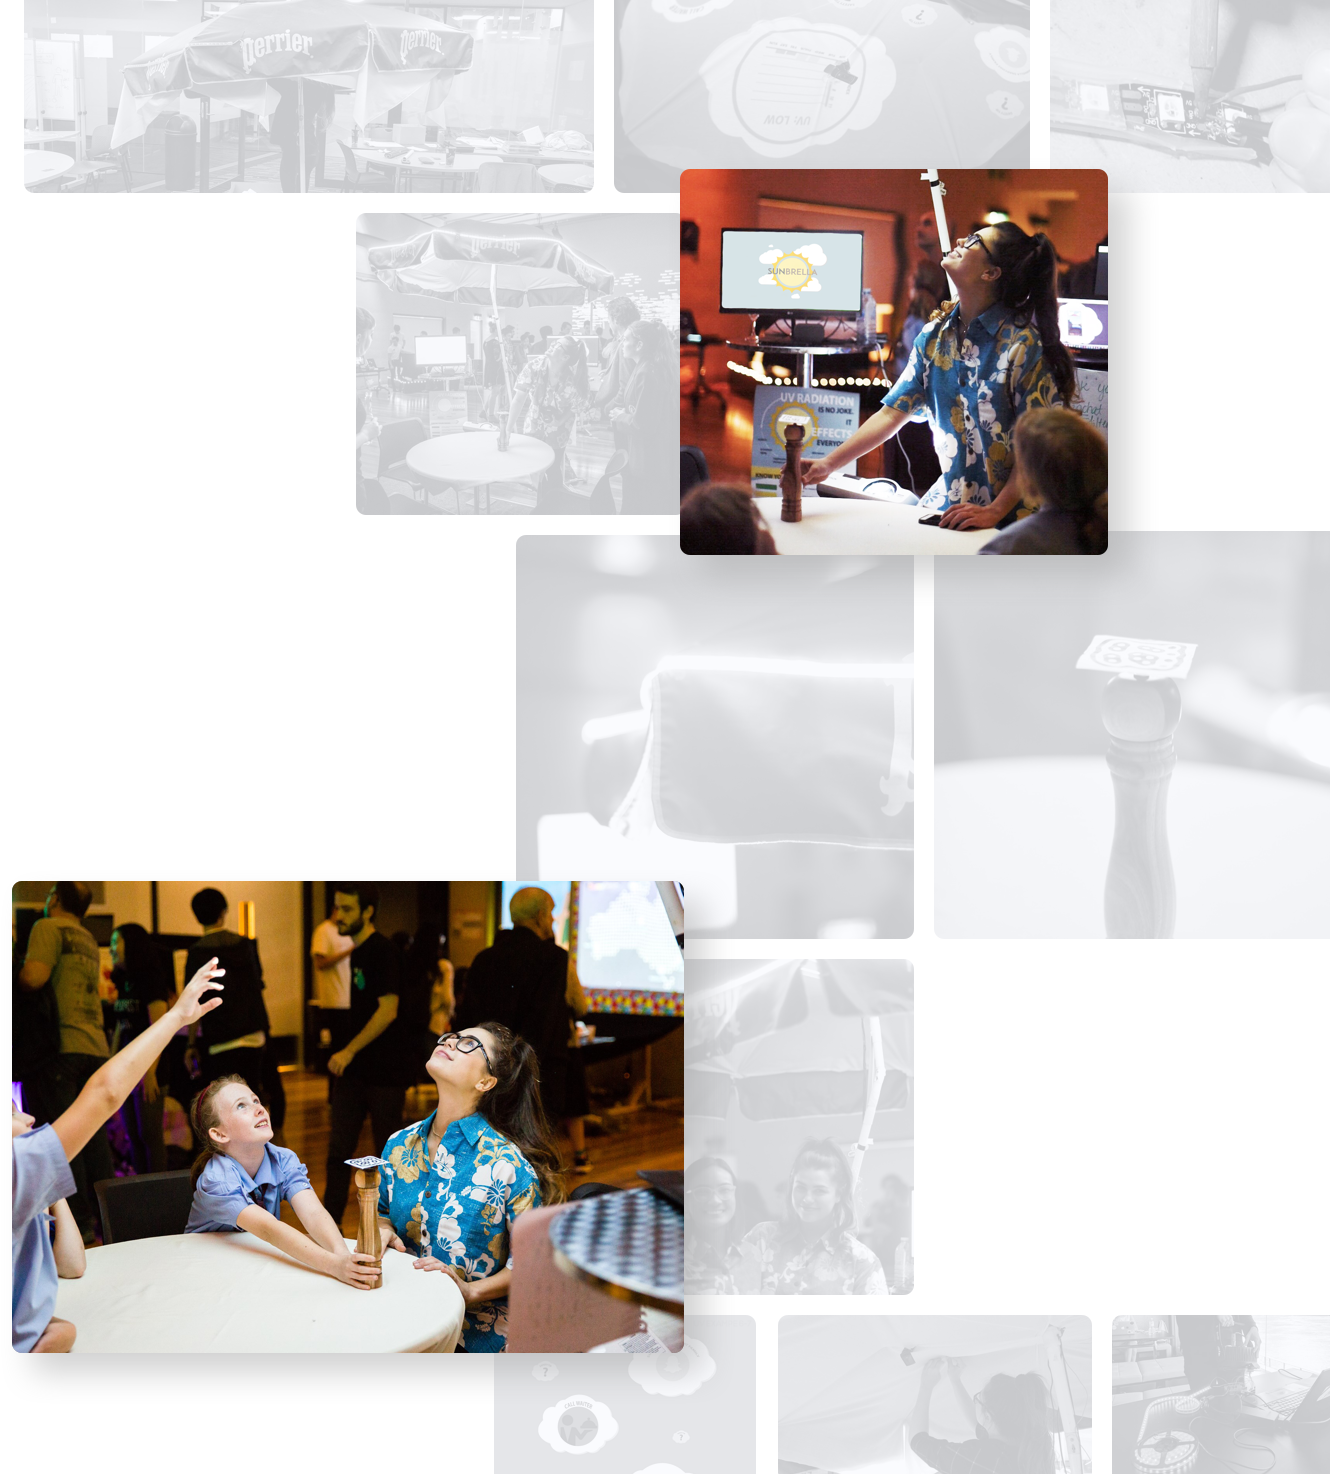
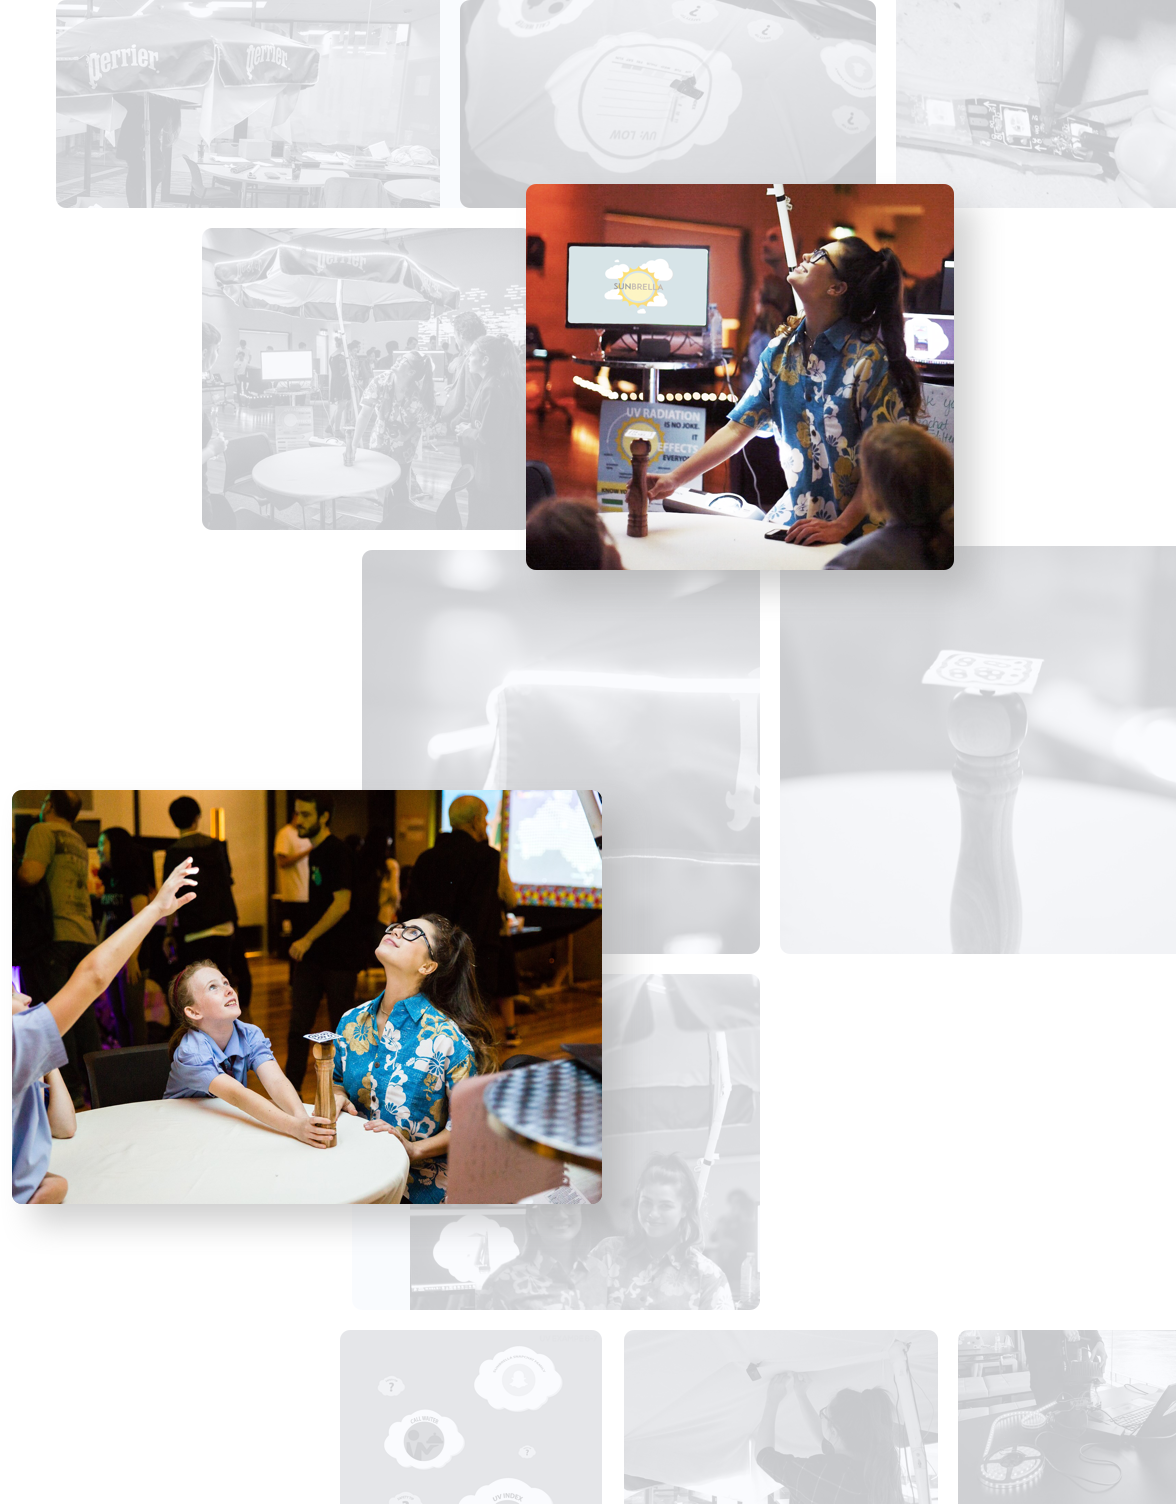
yasss

diff --git a/css/style.css b/css/style.css
@@ -294,10 +294,17 @@ footer {
     background-color: #F1F2F7;
 }
 
-.sunbrellaInformation{
+.sunbrellaInformationLarge {
     display: block;
     width: 100%; 
-    height: 548px; 
+    height: 800px; 
+}
+
+.sunbrellaInformationMedium {
+    display: none;
+    width: 100%; 
+    height: 600px; 
+
 }
 
 .portfolioInformation{
@@ -328,16 +335,26 @@ footer {
     height: 100%;
 }
 
+.rightImagesSun {
+    height: 100%;
+    float: right;
+}
+
 
 #scrunchGraphic {
     margin-top: 115px;
     margin-left: 60px;
 }
 
-#sunbrellaImages {
+#sunbrellaImageOne {
     height: 800px;
     float: right;
-    margin-top: -543px;
+}
+
+
+#sunbrellaImageThree {
+    width: 100%;
+    display: none;
 }
 
 
@@ -495,93 +512,207 @@ footer {
 
 
 
-@media (max-width: 1024px) {
 
+@media (max-width: 1184px) {
+
+    .sunbrellaImageOne {
+        height: 100%;
+    }
+
+    #sunbrellaImages {
+        height: 100%;
+        float: right;
+
+    }
+}
+
+
+@media (max-width: 1024px) {
 
 /*universal attributes*/
     .center {
         margin: auto;
-        width: 100%;
-        margin-left: 35px;
-        margin-right: 35px;
+        width: 765px;
+    }
+
+    .logo {
+        padding-left: 50px;
     }
 
     .topnav {
-        padding-right: 70px;
+        padding-right: 50px;
     }
+
 
 /*homepage*/
     .titleInformation {
-        height: 100%;
+        height: 600px;
     }
 
     .titleInformationText {
+        padding-left:50px;
         padding-right: 50px;
-        margin-bottom: 200px;
+    }
+
+    .scrunchInformation {
+        height: 600px;
+        width: 100%;
+
+    }
+
+    .sunbrellaInformationLarge {
+        height: 600px;
+        width: 100%;
+        display: none;
+    }
+
+    .sunbrellaInformationMedium {
+        display: block;
+    }
+
+    #sunbrellaImageTwo {
+        width: 310px;
+        margin-top: 190px;
+        margin-left: 0px;
+        float: right;
+    }
+
+    .portfolioInformation {
+        height: 600px;
+        width: 100%;
+    }
+
+    .leftDetails {
+        float: top;
+        padding-left: 0px;
+        padding-left: 50px;
+    }
+
+    .rightImages {
+        float: bottom;
+        padding-right: 0px;
+        margin-right: 0px;
+    }
+
+    .rightImagesSun {
+        float: bottom;
+        padding-right: 0px;
+        margin-right: 0px;
+    }
+
+    .innerbox {
+        margin-top: 140px;
+        width: 350px;   
+    }
+
+    #scrunchGraphic{
+        width: 310px;
+        height: 250px;
+        margin-top: 140px;
+        margin-left: 0px;
+        padding-left: 0px;
+        float: right;
+        padding-right: 50px;
+    }
+
+    #sunbrellaImageOne {
+        display: none;
+    }
+
+    #sunbrellaImageTwo {
+        display: inline-block;
+
+    }
+
+
+    footer {
+
+    }
+
+}
+ 
+
+
+
+
+
+@media (max-width: 765px) {
+
+
+    h1 {
+        margin-bottom: 0px;
+        padding-bottom: 0px;
+    }
+
+
+    h2 {
+        text-align: center;
+    }
+
+    h3 {
+        text-align: center;
+    }
+
+    .center {
+        margin: none;
+    }
+
+    .titleInformation {
+        height: 500px;
+        margin-top: 0px
+        padding-top: 0px;
+        padding-bottom: 200px;
     }
 
     .scrunchInformation {
         height: 100%;
     }
 
-    .leftDetails {
-        float: top;
-    }
-
-    .rightImages {
-        float: bottom;
-    }
-
-    .innerbox {
-        margin-top: 100px;
-        width: 350px;    
-    }
-
-    #scrunchGraphic{
-        width: 400px;
-        height: 330px;
-        margin-top: 50px;
-        padding-right: 100px;
-        float: right;
-    }
-
-    #sunbrellaImages {
+    .sunbrellaInformationLarge {
         height: 100%;
-        margin-top: 0px;
+        background: blue;
     }
 
+    .portfolioInformation{
+        height: 800px;
+        width: 100%;
+    }
 
-}
-
-
-
-
-
-
-@media (max-width: 768px) {
 
     /*homepage*/
 
-    #scrunchGraphic{
+    .leftDetails {
+        float: top;
+        width: 100%;
+        height: 100%;
+        background: orange;
     }
 
+    .innerbox {
+       text-align: center;
+       padding: 0px;
+       width: 100%;
+       margin-bottom: 0px;
+    }
 
     #scrunchGraphic{
-        width: 400px;
-        height: 330px;
+        width: 100%;
+        height: 100%;
         margin-left: 0px;
+        float: right;
+        margin-top: 0px;
+        background: green;
     }
 
-    h1 { font-family: 'Montserrat', sans-serif; 
-        font-size: 100px;
-    }
 
-    
+    .rightImagesSun {
+        height: 400px;
+        background: grey;
+        float: none;
+    }
 
     
 }
-
-
 
 
 

diff --git a/index.html b/index.html
@@ -2,6 +2,7 @@
 <html>
 <head>
         <meta content="text/html; charset=utf-8" http-equiv="Content-Type">
+        <meta name="viewport" content="width=device-width, initial-scale=1.0">
         <title>Sharde Heim</title>
         <link href="https://fonts.googleapis.com/css?family=Montserrat:200,300,500,500i,700,800" rel='stylesheet' type='text/css'>
 		<link href='https://fonts.googleapis.com/css?family=Titillium+Web' rel='stylesheet' type='text/css'>
@@ -12,7 +13,9 @@
 <body>
 	<nav>
 		<div class='center fade-in-element'>
-			<a href="index.html"><img src="images/logo.svg" height="50" /></a>
+			<div class="logo">
+				<a href="index.html"><img src="images/logo.svg" height="50" /></a>
+			</div>
 			<div class="topnav">
 			  <a href="about.html"> about</a> 
 			  <a class="active" href="index.html"> work</a>
@@ -54,25 +57,44 @@
 		</div> 
 
 
-		<div class="sunbrellaInformation">
-				<!-- <div class="leftDetailsSun"> -->
-
+		<div class="sunbrellaInformationLarge">
 				<div class="center fade-in-element">
-					<div class="innerbox">
-						<h2>UX AND PRODUCT BUILD</h2> 
-						<h3>SUNBRELLA</h3>
-						<p>
-							Designing and building a working prototype for a UV detecting, interactive outdoor umbrella
-						</p>
-						<button> 
-							<a href="sunbrella.html">VIEW MORE</a>
-						</button>
-					</div>
+				   	<div class="leftDetails">
+						<div class="innerbox">
+							<h2>UX AND PRODUCT BUILD</h2> 
+							<h3>SUNBRELLA</h3>
+							<p>
+								Designing and building a working prototype for a UV detecting, interactive outdoor umbrella
+							</p>
+							<button> 
+								<a href="sunbrella.html">VIEW MORE</a>
+							</button>
+						</div>
+				  	</div>
 				</div>
-				<div class="rightImages">
-						<img id="sunbrellaImages" src="images/sunbrellaImages.png" alt="sunbrellaimages">
+				<div class="rightImagesSun">
+						<img id="sunbrellaImageOne" src="images/sunbrellaImages.png" alt="sunbrellaimages">
+				</div>	
+		</div> 
+
+		<div class="sunbrellaInformationMedium">
+				<div class="center fade-in-element">
+				   	<div class="leftDetails">
+						<div class="innerbox">
+							<h2>UX AND PRODUCT BUILD</h2> 
+							<h3>SUNBRELLA</h3>
+							<p>
+								Designing and building a working prototype for a UV detecting, interactive outdoor umbrella
+							</p>
+							<button> 
+								<a href="sunbrella.html">VIEW MORE</a>
+							</button>
+						</div>
+				  	</div>
+					 <div class="rightImages">
+							<img id="sunbrellaImageTwo" src="images/sunbrellasinglephotoborder.png" alt="sunbrellaimages">
+					</div>	
 				</div>
-				
 		</div> 
 	
 
